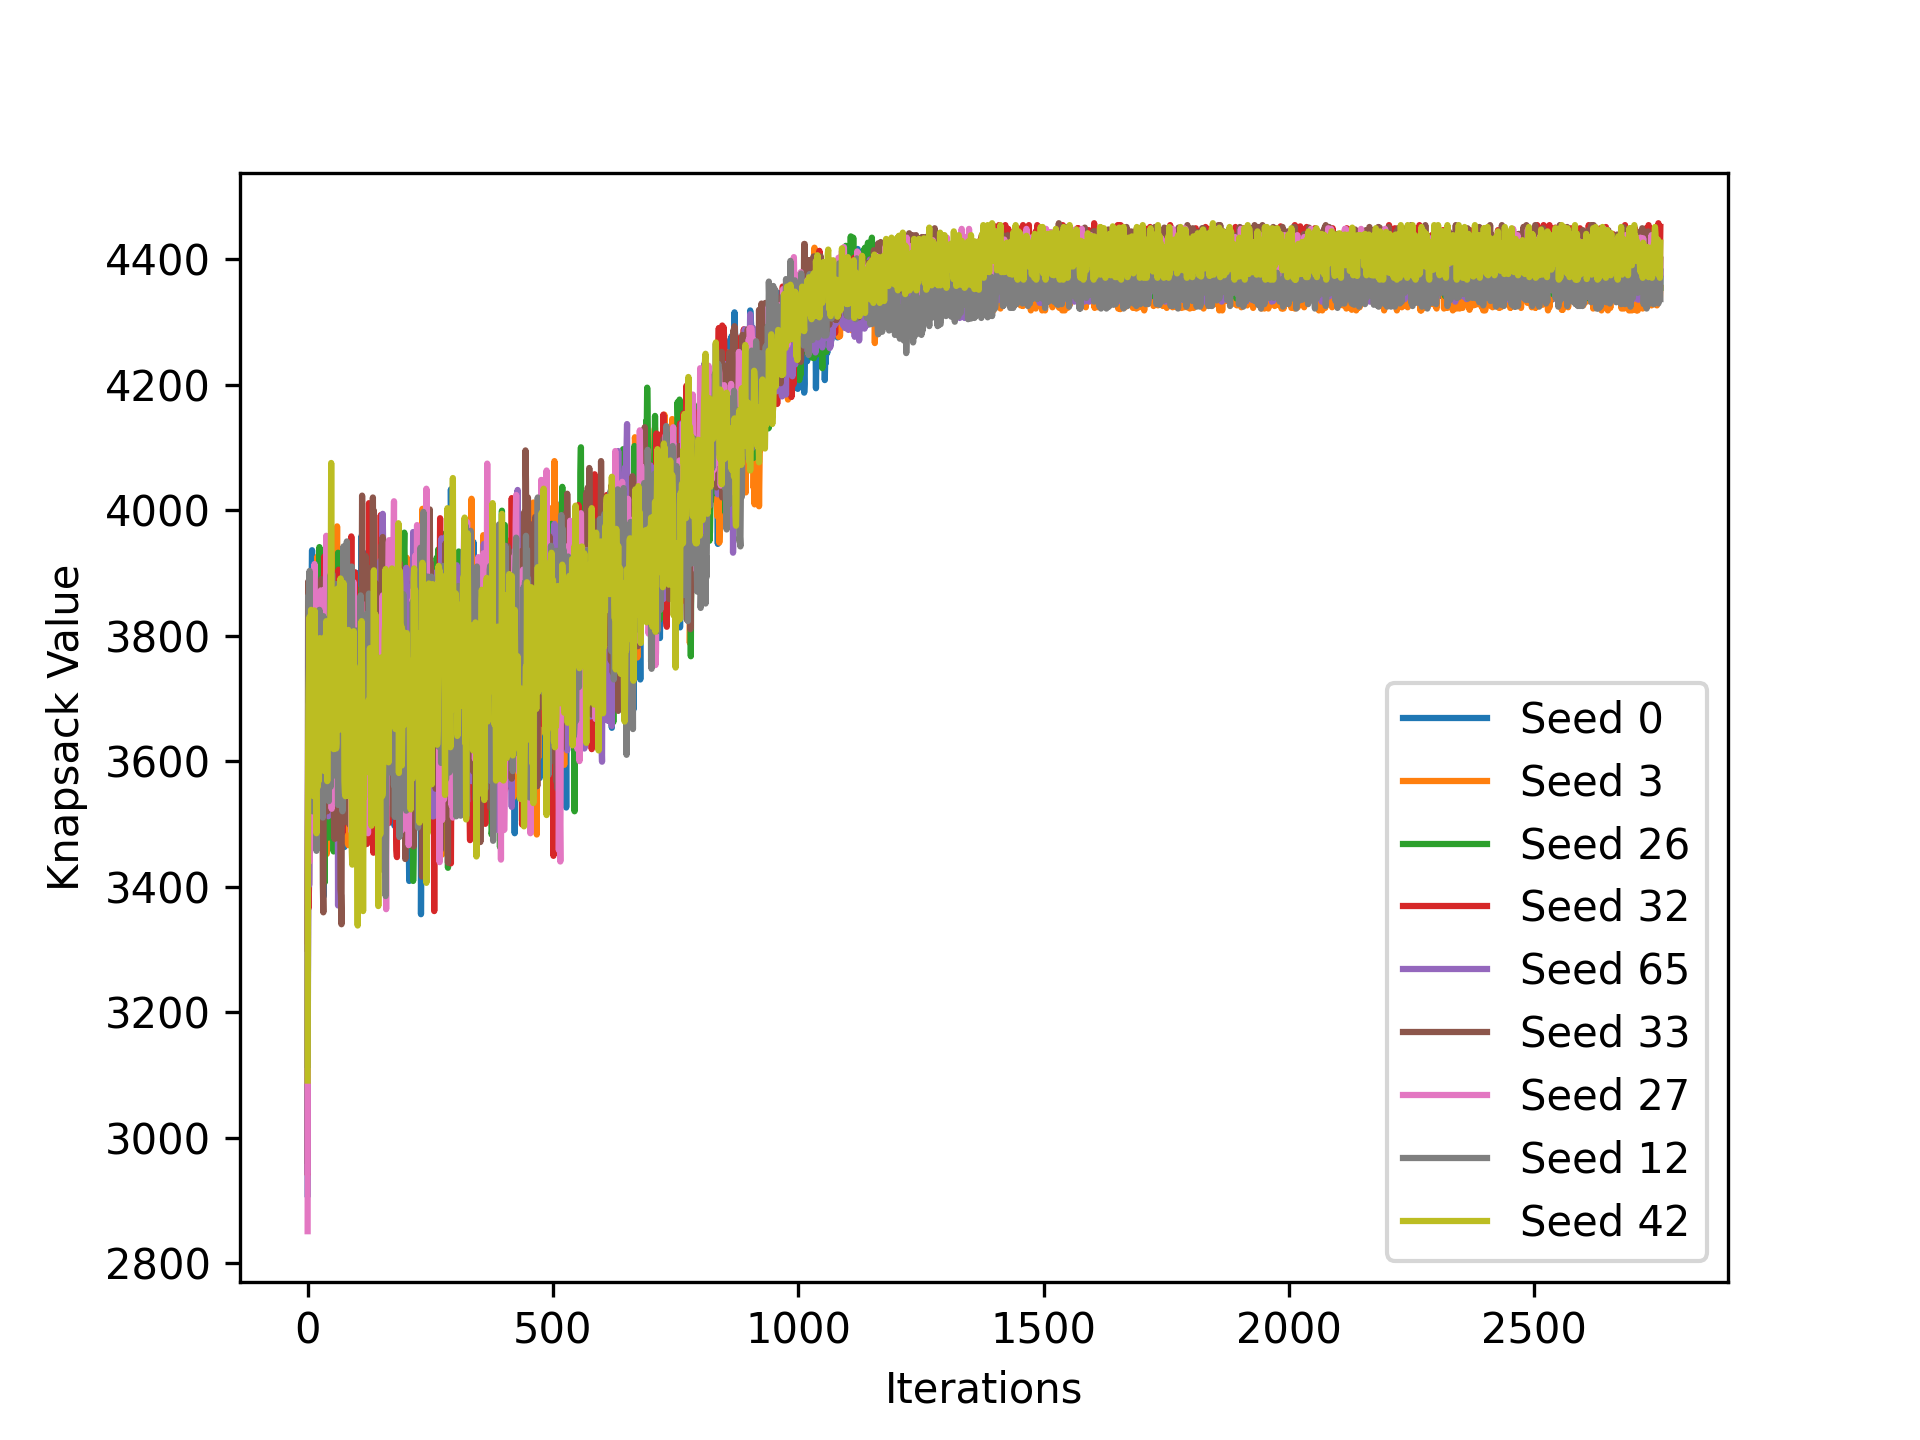
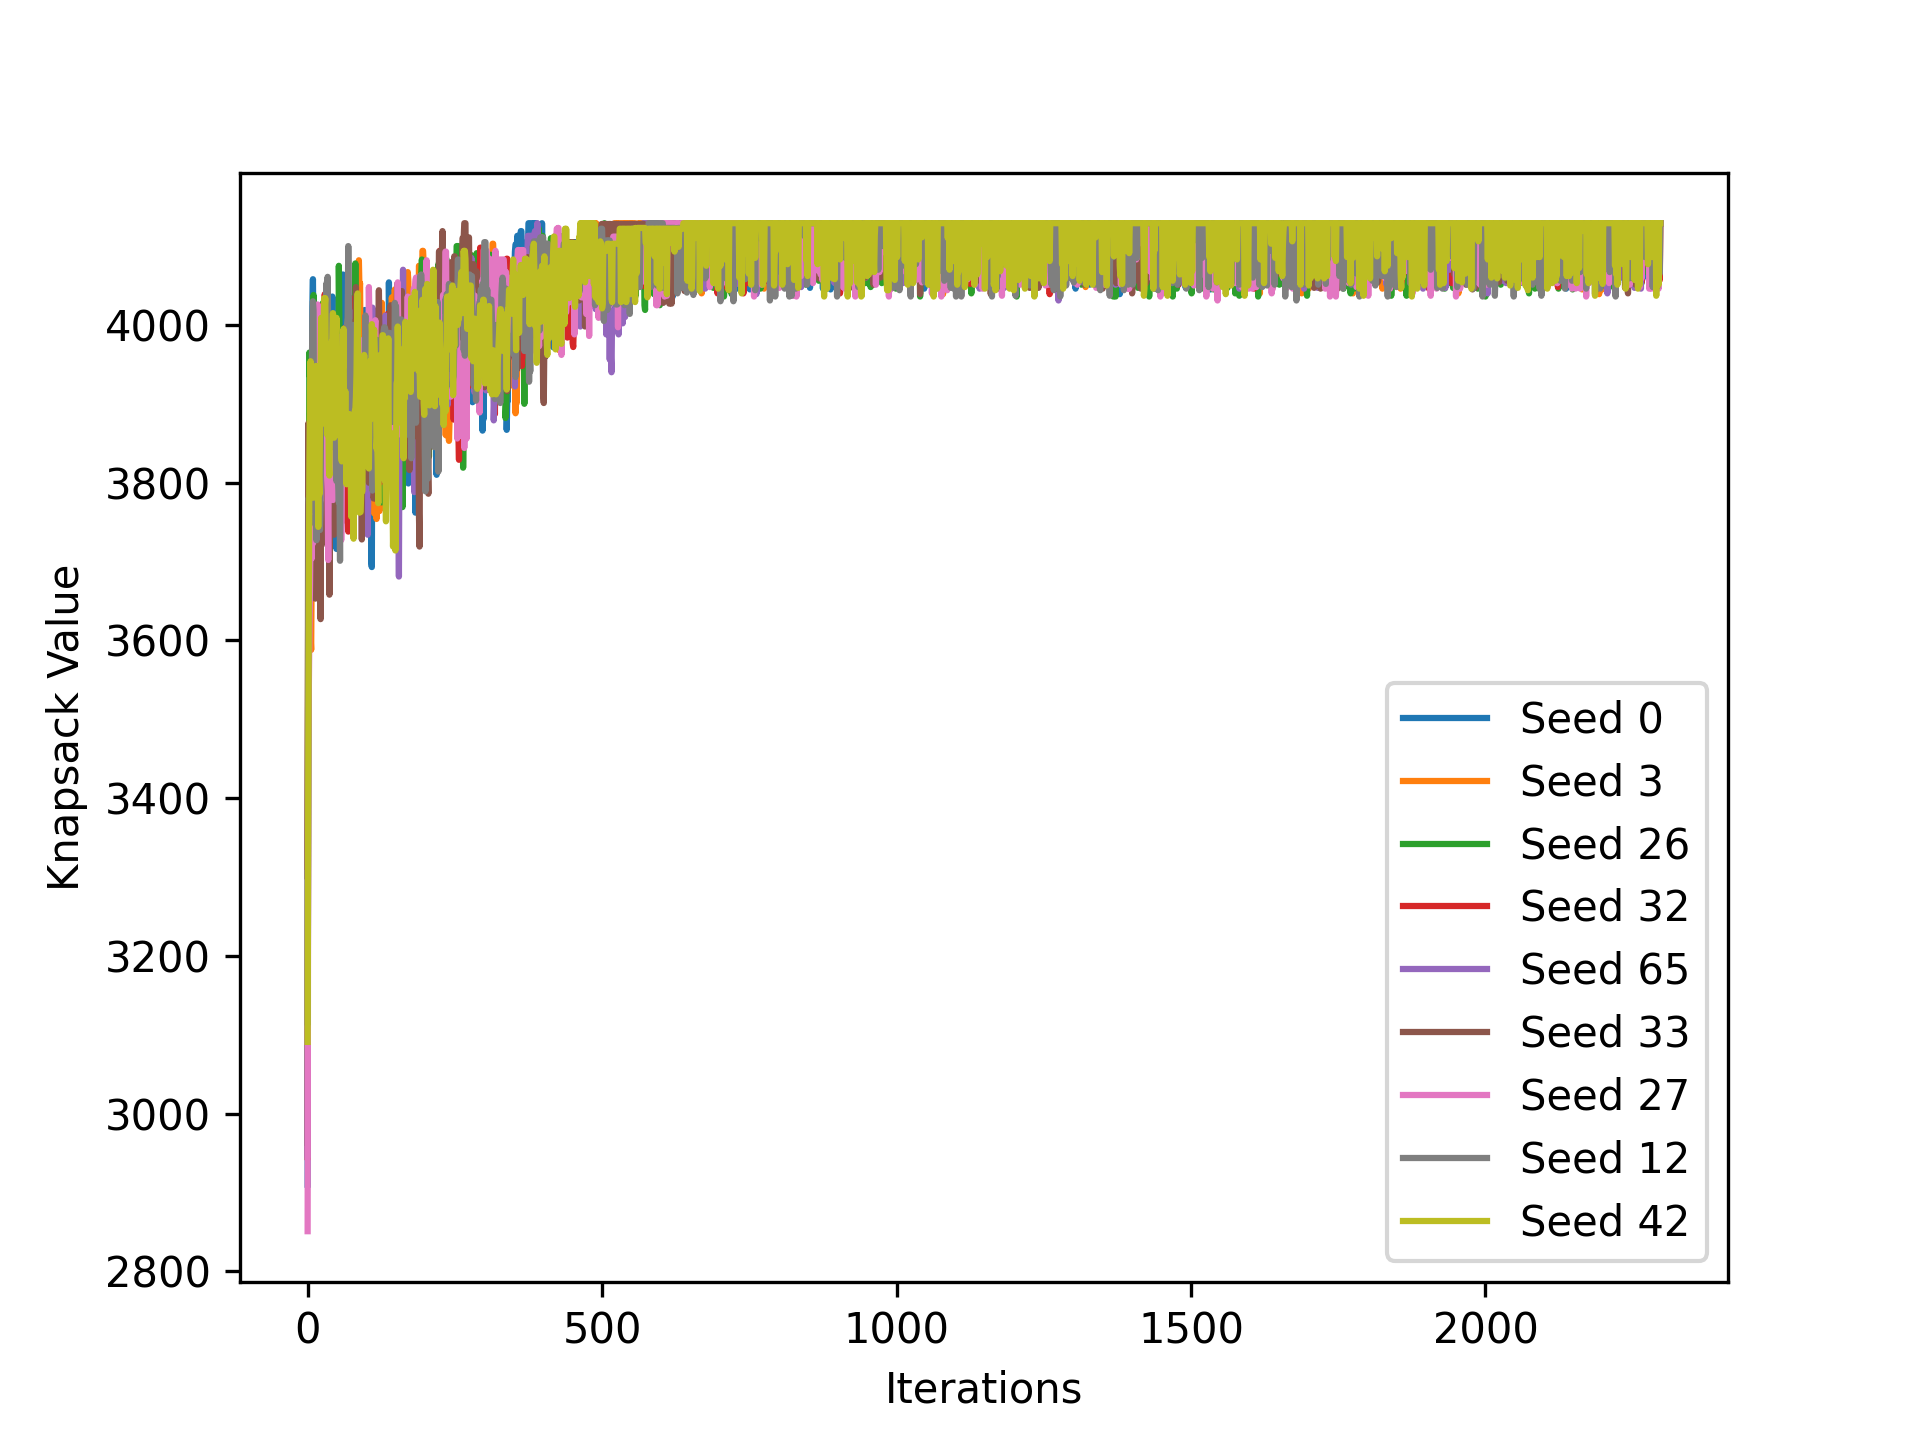
Adding Tabu search algorithm for knapsack problem

diff --git a/knapsack/knapsack.py b/knapsack/knapsack.py
@@ -6,6 +6,7 @@ import logging
 import random
 import time
 import matplotlib.pyplot as plt
+import hashlib
 
 # Item Class
 class Item:
@@ -27,11 +28,13 @@ class Knapsack:
     capacity = 1500
     content = []
     value = 0
+    items = []
 
-    def __init__(self):
+    def __init__(self, item_list):
         self.capacity = 1500
         self.content = []
         self.value = 0
+        self.items = list(item_list)
 
     def put(self, item: Item):
         if item.weight > self.capacity:
@@ -41,13 +44,28 @@ class Knapsack:
             self.content.append(item)
             self.capacity -= item.weight
             self.value += item.value
+            self.items.remove(item)
             return True
 
     def pop(self, item):
         self.content.remove(item)
         self.capacity += item.weight
         self.value -= item.value
+        self.items.append(item)
         assert (self.capacity >= 0)
+
+    def generate_neighbourhood(self, num=10):
+        neighborhood = []
+        for _ in range(num):
+            neighbor = copy.copy(self)
+            neighbor.pop_random()
+            filtered_items = list(filter(lambda item: item.weight < neighbor.capacity, neighbor.items))
+            while len(filtered_items) > 0:
+                random_item = random.choice(filtered_items)
+                assert (neighbor.put(random_item))
+                filtered_items = list(filter(lambda item: item.weight < neighbor.capacity, neighbor.items))
+            neighborhood.append(neighbor)
+        return neighborhood
 
     def pop_random(self):
         if len(self.content) < 1:
@@ -57,7 +75,7 @@ class Knapsack:
         return random_item
 
     def __copy__(self):
-        ks = Knapsack()
+        ks = Knapsack(self.items)
         ks.capacity = self.capacity
         ks.value = self.value
         ks.content = list(self.content)
@@ -66,52 +84,56 @@ class Knapsack:
     def __repr__(self):
         return f"Remaining Capacity: {self.capacity}, Total Value: {self.value}, Number of Items: {len(self.content)}"
 
+    def __hash__(self):
+        string = ''
+        string += f"{self.capacity}"
+        string += f"{self.value}"
+        string += f"{self.content}"
+        hash_object = hashlib.sha256(string.encode())
+        hash_value = hash_object.hexdigest()
+        return hash_value
 
-def random_init(sack: Knapsack, items: list):
+
+def random_init(sack: Knapsack):
     logging.info("Initializing Knapsack with Random Items")
     has_capacity = True
     while has_capacity:
-        random_item = random.choice(items)
+        random_item = random.choice(knapsack.items)
         if random_item.weight < sack.capacity:
             logging.debug(f"Adding {random_item}")
             sack.put(item=random_item)
-            items.remove(random_item)
         else:
             has_capacity = False
     logging.info(f"Initial Solution: {sack}")
     return sack
 
 
-def greedy_init(sack: Knapsack, items: list):
+def greedy_init(sack: Knapsack):
     logging.info("Initializing Knapsack with Greedy Algorithm")
-    sorted_items = sorted(items, key=lambda item: item.ratio, reverse=True)
+    sorted_items = sorted(sack.items, key=lambda item: item.ratio, reverse=True)
     for item in sorted_items:
         if item.weight < sack.capacity:
             sack.put(item)
-            items.remove(item)
     logging.info(f"Initial Solution: {sack}")
     return sack
 
 
-def steepest_assent_hill_climb(sack: Knapsack, items: list, iter=1000, cutoff=250):
+def steepest_assent_hill_climb(sack: Knapsack,iter=1000, cutoff=250):
     # Remove a random item from the knapsack
     iteration = 0
     for i in range(0, iter):
         if iteration < cutoff:
             new_solution = copy.copy(sack)
             new_solution.pop_random()
-            new_items = copy.copy(items)
-            filtered_items = list(filter(lambda item: item.weight < new_solution.capacity, items))
+            filtered_items = list(filter(lambda item: item.weight < new_solution.capacity, new_solution.items))
             sorted_items = sorted(filtered_items, key=lambda item: item.ratio, reverse=True)
             # Add items with best ratio
             for item in sorted_items:
                 if item.weight < new_solution.capacity:
                     new_solution.put(item)
-                    new_items.remove(item)
             if new_solution.value > sack.value:
                 logging.debug(f"Better solution found, Old value: {sack.value}, new value: {new_solution.value}")
                 sack = new_solution
-                items = new_items
                 iteration = 0
             else:
                 # Number of iterations without any improvement
@@ -120,36 +142,23 @@ def steepest_assent_hill_climb(sack: Knapsack, items: list, iter=1000, cutoff=25
             logging.info(f"No better solutions found for {cutoff} iterations")
             break
         cost_history.append(sack.value)
-    return sack, items
+    return sack
 
 
-def simulated_annealing(sack: Knapsack, items: list, tmax, tmin, cooling_rate):
+def simulated_annealing(sack: Knapsack, tmax, tmin, cooling_rate):
     t = tmax
     best_solution = copy.copy(sack)
-    best_items = list(items)
     while t >= tmin:
         iteration = 0
         while iteration < 20:
-            # Generate new solution
-            new_solution = copy.copy(sack)
-            new_items = list(items)
-            removed_item = new_solution.pop_random()
-            # Generate Neighbour Solution
-            filtered_items = list(filter(lambda item: item.weight < new_solution.capacity, new_items))
-            while len(filtered_items) > 0:
-                random_item = random.choice(filtered_items)
-                assert (new_solution.put(random_item))
-                new_items.remove(random_item)
-                filtered_items = list(filter(lambda item: item.weight < new_solution.capacity, new_items))
-            new_items.append(removed_item)
-            assert (len(new_solution.content) + len(new_items) == len(dataset))
+            # Generate neighbourhood solution
+            new_solution = sack.generate_neighbourhood(1)[0]
             # Cost Difference
             dE = sack.value - new_solution.value
             # if new solution is better
             if dE < 0:
-                logging.debug(f"Better Solution: Iteration {iteration}, Sack: {new_solution}, Items: {len(new_items)}")
+                logging.debug(f"Better Solution: Iteration {iteration}, Sack: {new_solution}, Items: {len(new_solution.items)}")
                 sack = new_solution
-                items = new_items
                 if new_solution.value > best_solution.value:
                     best_solution = new_solution
             # if the new solution is worse
@@ -159,14 +168,66 @@ def simulated_annealing(sack: Knapsack, items: list, tmax, tmin, cooling_rate):
                 randomity = random.random()
                 if randomity < probability:
                     logging.debug(
-                        f"Worse Solution: Iteration {iteration}, Sack: {new_solution}, Items: {len(new_items)}")
+                        f"Worse Solution: Iteration {iteration}, Sack: {new_solution}, Items: {len(new_solution.items)}")
                     sack = new_solution
-                    items = new_items
             iteration += 1
         t *= cooling_rate
         cost_history.append(new_solution.value)
     logging.info(f"Best solution {best_solution}")
-    return sack, items
+    return sack
+
+
+def tabu_search(sack: Knapsack, tabu_size=10, iter=1000, cutoff=250):
+    tabu_list = []
+    global_best_solution = sack
+    local_best_solution = global_best_solution
+
+    iteration = 0
+    for _ in range(iter):
+        if iteration < cutoff:
+            # Generate new solutions and select the best one
+            neighbourhood = local_best_solution.generate_neighbourhood(10)
+            local_best_solution = select_best_neighbor(neighbourhood, tabu_list)
+
+            # Update the best solution if a better neighbor is found
+            if local_best_solution.value > global_best_solution.value:
+                global_best_solution = local_best_solution
+                iteration = 0
+
+            # Add the best neighbor to the tabu list
+            tabu_list.append(local_best_solution.__hash__())
+            if len(tabu_list) > tabu_size:
+                tabu_list.pop(0)
+
+            iteration += 1
+            cost_history.append(local_best_solution.value)
+        else:
+            logging.info(f"No better solutions found for {cutoff} iterations")
+            break
+        #cost_history.append(local_best_solution.value)
+
+    return global_best_solution
+
+
+def select_best_neighbor(neighborhood: list, tabu_list: list):
+    best_neighbor = None
+    best_value = float('-inf')
+    for neighbor in neighborhood:
+        if neighbor.__hash__() in tabu_list:
+            logging.debug(f"Item is in tabu list, skipping")
+        elif neighbor.value > best_value:
+            best_neighbor = neighbor
+            best_value = neighbor.value
+    return best_neighbor
+
+
+def get_remaining_items(items: list, sack: Knapsack):
+    remaining_items = []
+    for item in items:
+        if item.weight <= sack.capacity:
+            remaining_items.append(item)
+    return remaining_items
+
 
 
 if __name__ == '__main__':
@@ -182,33 +243,33 @@ if __name__ == '__main__':
     for i in range(len(dataset)):
         item_list.append(Item(values[i], weights[i]))
 
-    items = list(item_list)
-    for optimiser in ["sahc", "sa"]:
-        for init in ["random", "greedy"]:
-
+    for optimiser in ["ts", "sahc", "sa"]:
+        for init in ["random"]: #, "greedy"]:
             for seed in [0, 3, 26, 32, 65, 33, 27, 12, 42]:
                 logging.info("----------------------")
                 random.seed(seed)
                 logging.info(f"Random seed: {seed}")
                 cost_history = []
-                item_list = list(items)
                 # Create a Knapsack object
-                knapsack = Knapsack()
+                assert(len(item_list) == len(dataset))
+                knapsack = Knapsack(item_list)
 
                 start_time = time.perf_counter()
                 if init == "random":
-                    knapsack = random_init(knapsack, item_list)
+                    knapsack = random_init(knapsack)
                 elif init == "greedy":
-                    knapsack = greedy_init(knapsack, item_list)
+                    knapsack = greedy_init(knapsack)
                 else:
                     logging.error("Wrong Initialiser")
 
                 cost_history.append(knapsack.value)
 
                 if optimiser == "sahc":
-                    knapsack, item_list = steepest_assent_hill_climb(knapsack, item_list, iter=1000, cutoff=250)
+                    knapsack = steepest_assent_hill_climb(knapsack, iter=1000, cutoff=250)
                 elif optimiser == "sa":
-                    knapsack, item_list = simulated_annealing(knapsack, item_list, tmax=1000, tmin=0.001, cooling_rate=0.995)
+                    knapsack = simulated_annealing(knapsack, tmax=100, tmin=0.001, cooling_rate=0.995)
+                elif optimiser == "ts":
+                    knapsack = tabu_search(knapsack, tabu_size=50, iter=1000, cutoff=250)
                 else:
                     logging.error("Wrong Optimiser")
 
